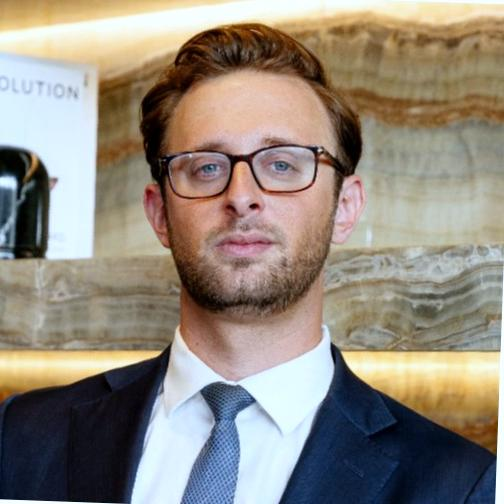
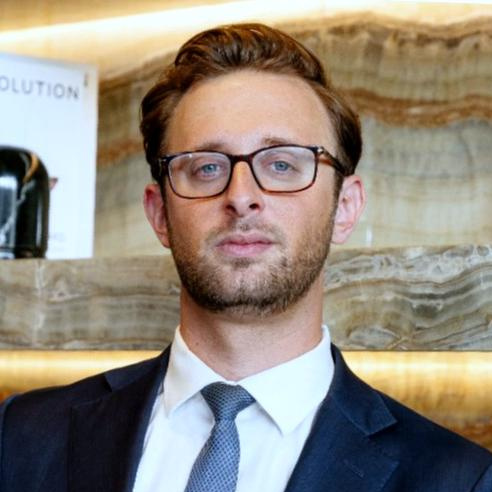
Team page: trim the white corner from Charles Slamowitz's headshot

diff --git a/team.html b/team.html
@@ -228,7 +228,7 @@
                         </div>
 
                         <div class="team-card">
-                            <div class="team-portrait" data-initials="CS"><img src="/team/charles-slamowitz.jpg" alt="Charles Slamowitz" width="504" height="504" loading="lazy"></div>
+                            <div class="team-portrait" data-initials="CS"><img src="/team/charles-slamowitz.jpg" alt="Charles Slamowitz" width="492" height="492" loading="lazy"></div>
                             <h2 class="team-card-name">Charles Slamowitz</h2>
                             <p class="team-card-role">Operating Partner, Law</p>
                             <p class="team-card-bio">Leads regulatory work, dispute resolution, and market development across the Caribbean, South America, and Africa. He is the founder and managing partner of Slam Legal in New York, a firm for artificial intelligence, digital assets, and cross-border technology disputes. He trained at Emory University School of Law.</p>
